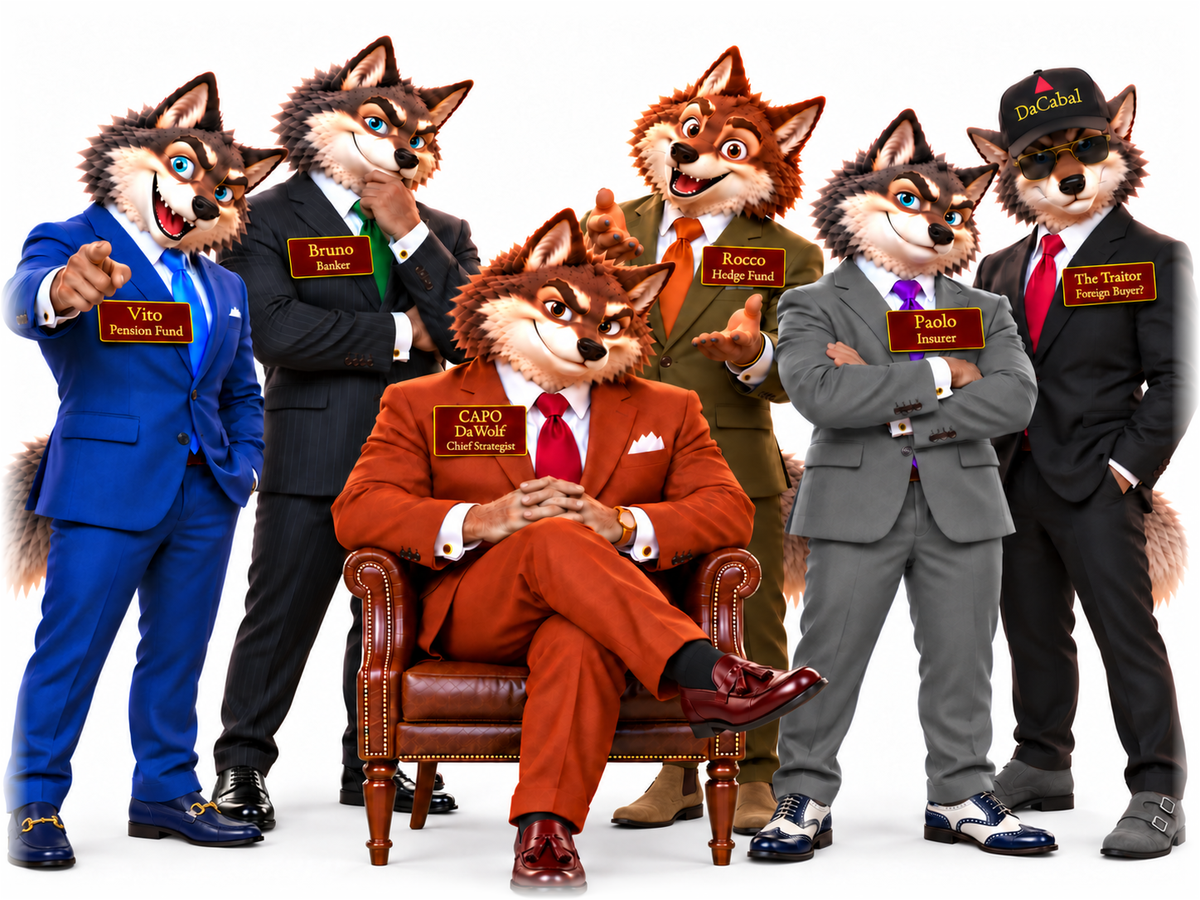
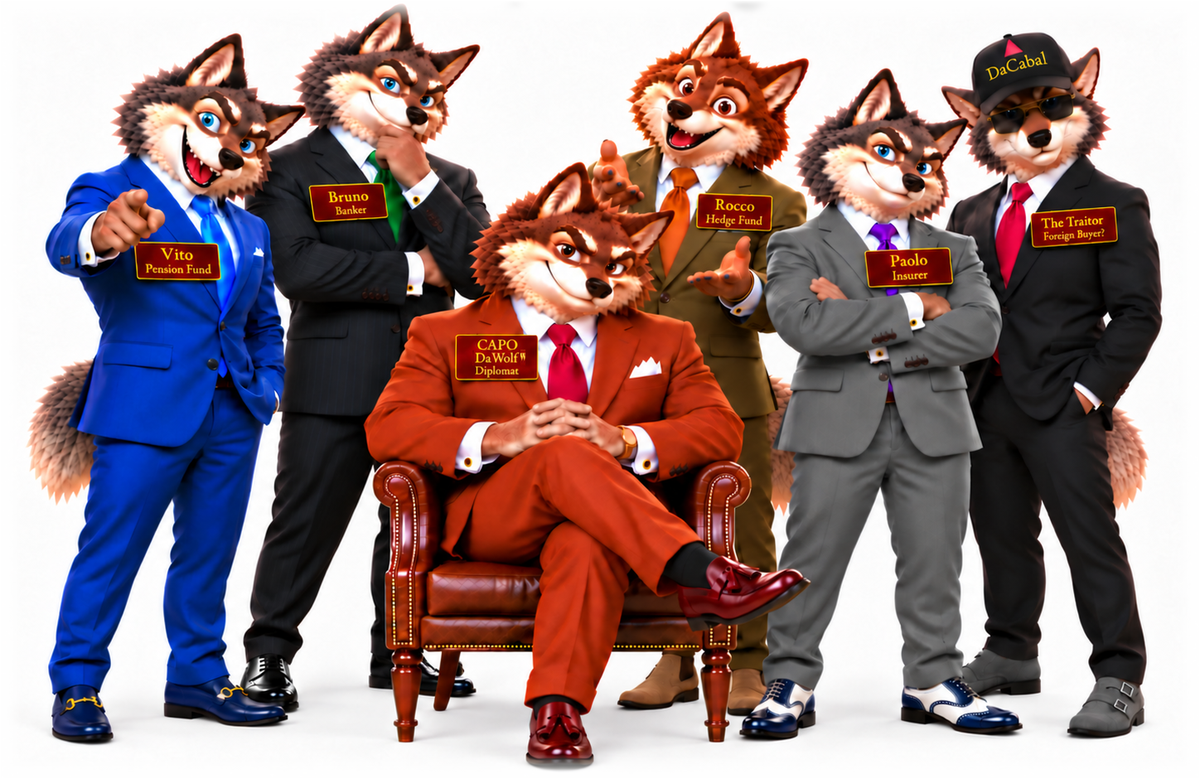
DaCabal crew: Capo tag reads Diplomat

diff --git a/cast/index.html b/cast/index.html
@@ -89,7 +89,7 @@
       <h2 id="da-cabal-h">DaCabal</h2>
       <p>DaCabal acts as one, but is more than one. DaCabal is the pack of wolves. The boss is Capo DaWolf. He gives the orders. His beat is Washington’s debt, not your savings. Vito, Bruno, Rocco and Paolo work the desk. They sell first and ask questions later. Their battle cry is one word: “Yours.” On a bond desk, that’s trader speak for: I sold. You bought. I’m flat. You’re long.</p>
       <p class="role">From <a href="https://chipcorley.substack.com/p/the-bond-vigilantes-who-are-they">The Bond Vigilantes: Who Are They?</a> (Oct 6, 2026)</p>
-      <img class="crew" src="../assets/cast/dacabal-crew.png?v=5" alt="Six suited wolves on white. Capo DaWolf, in a rust suit and oxblood tassel loafers, sits in a leather chair. Around him: Vito, Pension Fund, in royal blue with navy horsebit loafers; Bruno, Banker, in black pinstripe with black oxfords; Rocco, Hedge Fund, in olive with tan suede Chelsea boots; Paolo, Insurer, in gray with navy-and-white spectator shoes; and a wolf in a DaCabal cap and sunglasses whose name tag reads The Traitor, Foreign Buyer?, in black with gray monk-strap shoes." width="1200" height="900">
+      <img class="crew" src="../assets/cast/dacabal-crew.png?v=6" alt="Six suited wolves on white. Capo DaWolf, Diplomat, in a rust suit and oxblood tassel loafers, sits in a leather chair. Around him: Vito, Pension Fund, in royal blue with navy horsebit loafers; Bruno, Banker, in black pinstripe with black oxfords; Rocco, Hedge Fund, in olive with tan suede Chelsea boots; Paolo, Insurer, in gray with navy-and-white spectator shoes; and a wolf in a DaCabal cap and sunglasses whose name tag reads The Traitor, Foreign Buyer?, in black with gray monk-strap shoes." width="1200" height="779">
       <ul class="crew-grid">
         <li><b>Vito</b>Pension fund<br><i>New York</i></li>
         <li><b>Bruno</b>Banker<br><i>Zurich</i></li>
